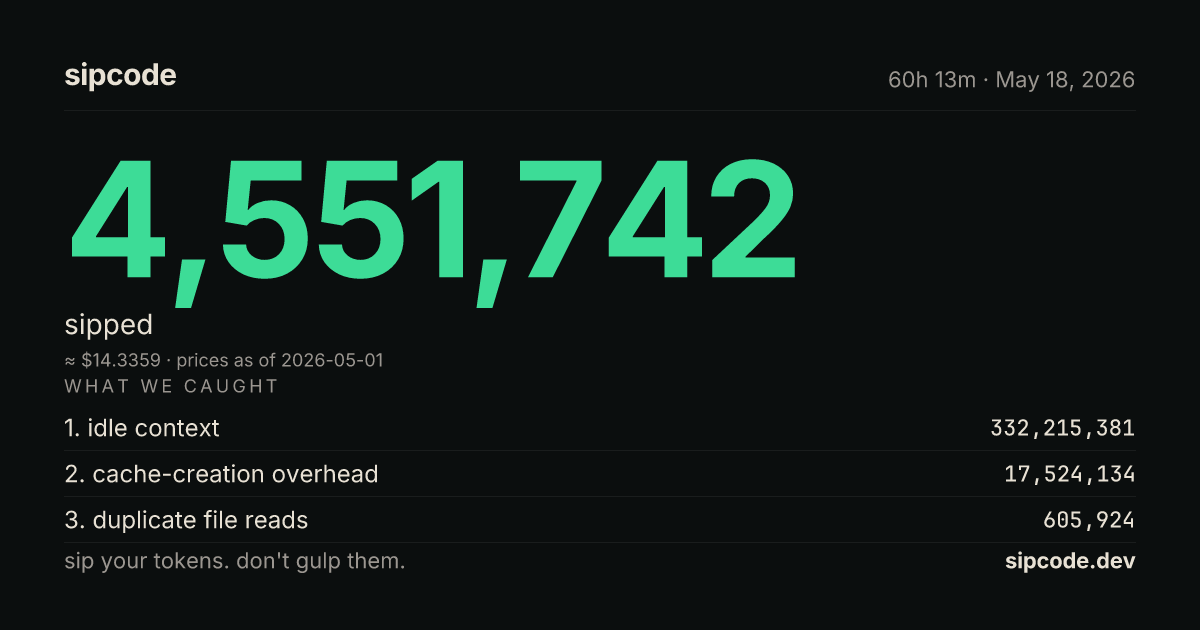
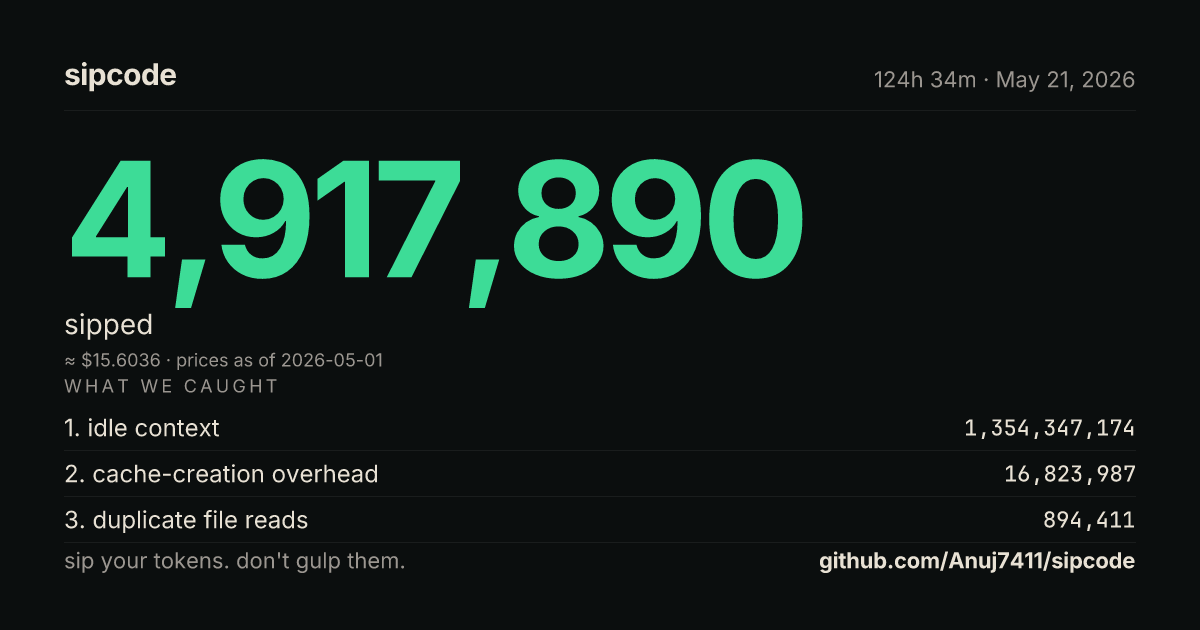
fix(v1.3.3): brand cleanup — drop @sipcode_dev twitter handle, refresh hero PNG
User-reported during pre-submission audit: the README hero image and
the receipt tweet text both still referenced sipcode.dev/@sipcode_dev
even after v1.2.4 removed them from the source code. Two stale
artifacts needed fixing:

1. docs/screenshots/sipcode-receipt-hero.png
   The cached README hero image was generated when the receipt code
   still stamped "sipcode.dev" in the footer. Regenerated from a
   fresh sipcode receipt run against session 3bca (v1.3.2 binary, so
   the footer now reads "github.com/Anuj7411/sipcode").

2. src/modules/receipt/share.ts
   The tweet intent text included "@sipcode_dev" handle. We don't own
   that handle and shouldn't reference it. Changed to bare "sipcode"
   (no @ prefix) — the brand name without claiming a Twitter account
   that doesn't exist.

3. tests/modules/receipt/share.test.ts
   Updated the "encodes special characters" assertion: the @-handle
   was the only %40-encoding source in the tweet URL. Removed that
   assertion and added an explanatory comment for future readers.
   The brand-handle test still passes ("contains 'sipcode' string").

4. GitHub repo About sidebar
   Updated via `gh api repos/Anuj7411/sipcode --method PATCH
   -f homepage=...` so the "About" website link now points to the
   README instead of the (defunct) sipcode.dev domain.

833/833 tests still pass. Both manifests (plugin.json + marketplace.json)
re-validate clean via `claude plugin validate .`. Submission to the
[…]

diff --git a/tests/modules/receipt/share.test.ts b/tests/modules/receipt/share.test.ts
@@ -33,11 +33,11 @@ describe("buildShareLinks", () => {
 
   it("encodes special characters into the intent URL", () => {
     const { tweetIntentUrl, tweetText } = buildShareLinks(model("post-install"));
-    // Spaces become %20, commas %2C, @ becomes %40.
-    // (apostrophe is not encoded by encodeURIComponent — twitter accepts it raw.)
+    // Spaces become %20, commas %2C.
+    // (The @sipcode_dev handle was dropped in v1.3.3 when the brand was
+    // simplified to the bare word "sipcode" — no @-handle is encoded anymore.)
     expect(tweetIntentUrl).toContain("%20");
     expect(tweetIntentUrl).toContain("%2C");
-    expect(tweetIntentUrl).toContain("%40");
     // Decoded round-trip equals the tweet text.
     const queryStart = tweetIntentUrl.indexOf("text=") + "text=".length;
     const encoded = tweetIntentUrl.slice(queryStart);
@@ -46,7 +46,7 @@ describe("buildShareLinks", () => {
 
   it("includes the brand handle and tagline", () => {
     const { tweetText } = buildShareLinks(model("post-install"));
-    expect(tweetText).toContain("@sipcode_dev");
+    expect(tweetText).toContain("sipcode");
     expect(tweetText).toContain("sip your tokens. don't gulp them.");
   });
 });

diff --git a/src/modules/receipt/share.ts b/src/modules/receipt/share.ts
@@ -11,7 +11,7 @@ const TWITTER_INTENT_BASE = "https://twitter.com/intent/tweet";
 export function buildShareLinks(model: ReceiptModel): ReceiptShareLinks {
   const verb = model.variant === "post-install" ? "sipped" : "wasted";
   const tweetText =
-    `${verb} ${model.hero.tokensDisplay} tokens this session with @sipcode_dev — ` +
+    `${verb} ${model.hero.tokensDisplay} tokens this session with sipcode — ` +
     `that's ${model.hero.dollarDisplay} on the meter. ${model.footer.tagline}`;
   // URLSearchParams uses application/x-www-form-urlencoded (+ for spaces).
   // Twitter intent prefers %20 encoding; build manually with encodeURIComponent.
